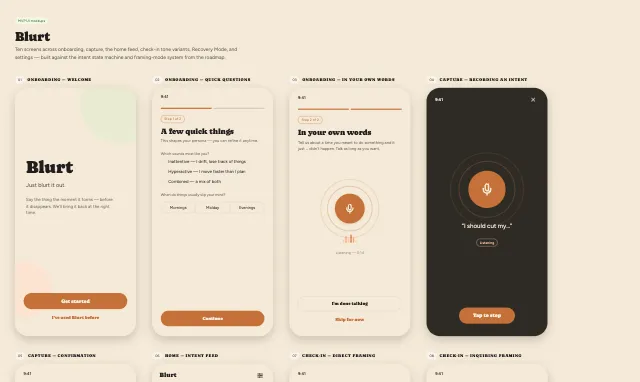
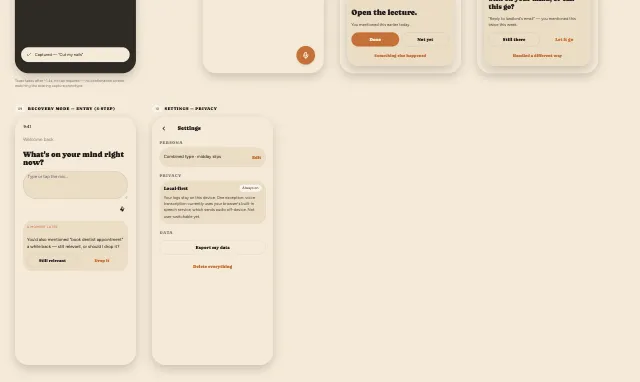
Update UI mockups: fix capture confirmation, check-in adjacent option, privacy copy
Addresses the three schema-review gaps: capture confirmation is now a
transient auto-dismissing toast (no tap), check-in cards add a third
action for done_adjacent-equivalent outcomes, and the privacy badge
no longer implies local-first is user-switchable.

diff --git a/frontend/mockups/Blurt Mockups.dc.html b/frontend/mockups/Blurt Mockups.dc.html
@@ -146,24 +146,18 @@
 
     <!-- 05 Captured confirmation -->
     <div style="display:flex;flex-direction:column;gap:14px">
-      <div style="display:flex;align-items:baseline;gap:8px"><span class="tag tag-neutral">05</span><h6 style="margin:0">Capture — confirmation</h6></div>
-      <div data-screen-label="Capture — confirmation" style="width:390px;height:800px;border-radius:44px;background:var(--color-bg);box-shadow:var(--shadow-lg);overflow:hidden;position:relative;display:flex;flex-direction:column">
+      <div style="display:flex;align-items:baseline;gap:8px"><span class="tag tag-neutral">05</span><h6 style="margin:0">Capture — confirmation (transient toast, auto-dismiss)</h6></div>
+      <div data-screen-label="Capture — confirmation" style="width:390px;height:800px;border-radius:44px;background:var(--color-neutral-900);box-shadow:var(--shadow-lg);overflow:hidden;position:relative;display:flex;flex-direction:column;color:var(--color-bg)">
         <div style="padding:20px 28px 0"><span style="font-size:13px;font-weight:600">9:41</span></div>
-        <div style="flex:1;display:flex;flex-direction:column;align-items:center;justify-content:center;gap:22px;padding:0 32px">
-          <div style="width:80px;height:80px;border-radius:50%;background:var(--color-accent-2-200);display:flex;align-items:center;justify-content:center;color:var(--color-accent-2-800)">
-            <svg width="32" height="32" viewBox="0 0 24 24" fill="none" stroke="currentColor" stroke-width="2.75" stroke-linecap="round" stroke-linejoin="round"><polyline points="20 6 9 17 4 12"/></svg>
-          </div>
-          <h3 style="margin:0">Got it.</h3>
-          <div class="card elev-sm" style="width:100%;background:var(--color-surface)">
-            <p class="card-body" style="font-size:15px;opacity:1;font-style:italic">&ldquo;Cut my nails&rdquo;</p>
-          </div>
-          <p style="font-size:13px;opacity:.6;text-align:center;margin:0">We'll find the right moment to bring this back. No due date, no pressure.</p>
+        <div style="flex:1;display:flex;flex-direction:column;align-items:center;justify-content:center;gap:16px;padding:0 32px;opacity:.35">
+          <div style="width:120px;height:120px;border-radius:50%;background:var(--color-accent)"></div>
         </div>
-        <div style="padding:0 28px 36px;display:flex;flex-direction:column;gap:8px">
-          <button class="btn btn-secondary btn-block" style="height:48px">Capture another</button>
-          <button class="btn btn-ghost" style="align-self:center">Done</button>
+        <div style="position:absolute;left:20px;right:20px;bottom:36px;display:flex;align-items:center;gap:10px;background:var(--color-bg);color:var(--color-text);border-radius:var(--radius-lg);padding:14px 16px;box-shadow:var(--shadow-md)">
+          <svg width="18" height="18" viewBox="0 0 24 24" fill="none" stroke="var(--color-accent-2-700)" stroke-width="2.75" stroke-linecap="round" stroke-linejoin="round" style="flex:none"><polyline points="20 6 9 17 4 12"/></svg>
+          <span style="font-size:13px;flex:1">Captured &mdash; &ldquo;Cut my nails&rdquo;</span>
         </div>
       </div>
+      <p style="font-size:12px;opacity:.55;max-width:390px;margin:0">Toast fades after ~1.4s, no tap required — no confirmation screen, matching the existing capture prototype.</p>
     </div>
 
     <!-- 06 Home feed -->
@@ -221,6 +215,7 @@
               <button class="btn btn-primary" style="flex:1;height:46px">Done</button>
               <button class="btn btn-secondary" style="flex:1;height:46px">Not yet</button>
             </div>
+            <button class="btn btn-ghost btn-block" style="height:38px;font-size:13px;margin-top:2px">Something else happened</button>
           </div>
         </div>
       </div>
@@ -241,6 +236,7 @@
               <button class="btn btn-secondary" style="flex:1;height:46px">Still there</button>
               <button class="btn btn-ghost" style="flex:1;height:46px">Let it go</button>
             </div>
+            <button class="btn btn-ghost btn-block" style="height:38px;font-size:13px;margin-top:2px">Handled a different way</button>
           </div>
         </div>
       </div>
@@ -293,9 +289,9 @@
             <div class="card elev-sm">
               <div style="display:flex;justify-content:space-between;align-items:center">
                 <span class="card-title" style="font-size:15px">Local-first</span>
-                <span class="tag tag-accent-2">On</span>
+                <span class="tag tag-neutral">Always on</span>
               </div>
-              <p class="card-body">Your logs stay on this device. One exception: voice transcription currently uses your browser's built-in speech service, which sends audio off-device.</p>
+              <p class="card-body">Your logs stay on this device. One exception: voice transcription currently uses your browser's built-in speech service, which sends audio off-device. Not user-switchable yet.</p>
             </div>
           </div>
           <div>
